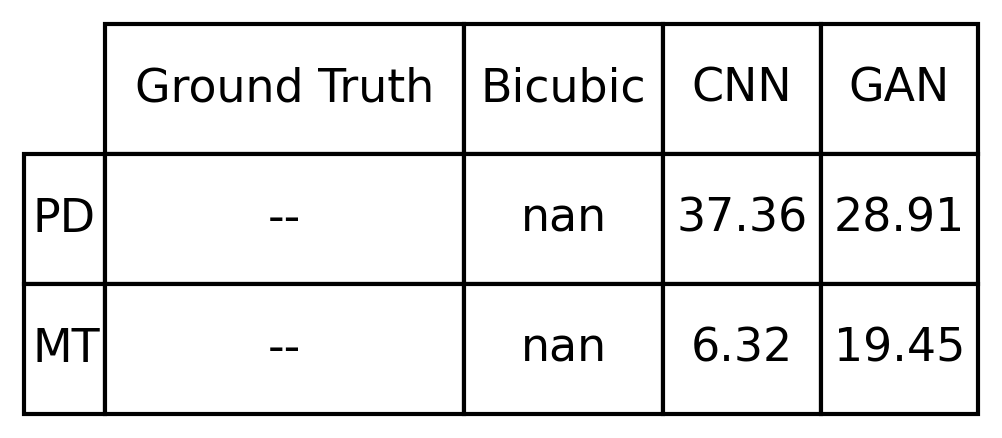
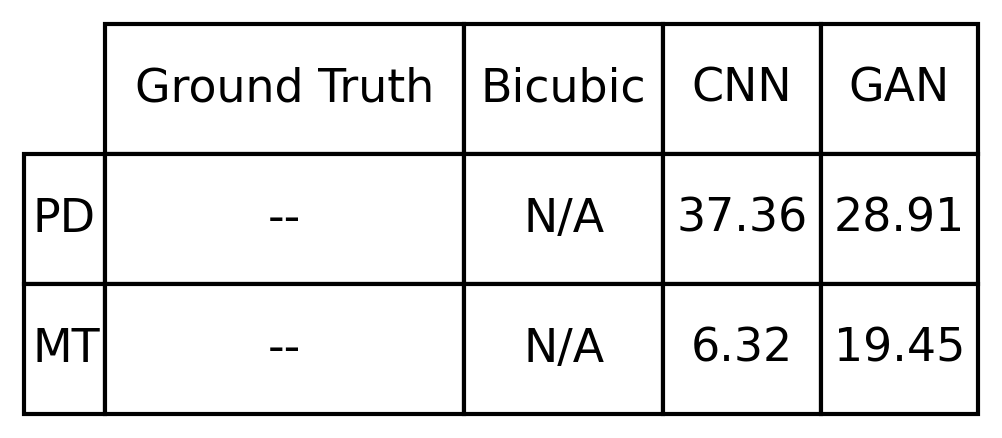
complete phase 2d-b scripted panel rendering

Changed region(s): [[0.5259, 0.742, 0.6188, 0.8311], [0.5259, 0.4452, 0.6188, 0.5342]]

diff --git a/docs/unified_candidate_phase2db_scripted_visual_review.md b/docs/unified_candidate_phase2db_scripted_visual_review.md
@@ -1,34 +1,23 @@
 # Phase 2D-B Scripted-Panel Visual Review
 
 The 81 scripted Phase 2D-B panels were reviewed after the authoritative
-Spark `--render-fields` run and the publication-layout refinement.
+Spark `--render-fields` run and the publication-layout refinements.
 
 ## Review result
 
-- Figure 1 — global descriptor disagreement:
-  ACCEPTED.
-- Figure 2 — GAN/CNN descriptor conflict:
-  CONDITIONALLY ACCEPTED. The scientific content and panel identities are
-  correct, but the metric strip currently displays unavailable Bicubic PD
-  and MT entries as `nan`. These entries must be rendered as `N/A` before
-  final scripted-panel acceptance.
-- Figure 3 — F3 versus UV+E2 tradeoff:
-  ACCEPTED. The deterministic zoom is clearly presented in a 2-by-2 layout.
-- Figure 4 — F2 balanced case:
-  ACCEPTED. The compact PD/MT tradeoff plot has readable annotations and
-  unclipped axes.
-- Figure 5 — Candidate C continuity:
-  ACCEPTED.
-- Figure 6 — global descriptor agreement:
-  ACCEPTED. The compact PD/MT comparison is sufficiently legible for
-  continued composite development.
+- Figure 1 — global descriptor disagreement: ACCEPTED.
+- Figure 2 — GAN/CNN descriptor conflict: ACCEPTED.
+- Figure 3 — F3 versus UV+E2 tradeoff: ACCEPTED.
+- Figure 4 — F2 balanced case: ACCEPTED.
+- Figure 5 — Candidate C continuity: ACCEPTED.
+- Figure 6 — global descriptor agreement: ACCEPTED.
 
 ## Checks performed
 
 - Method identities and panel assignments were verified.
 - No blank, duplicated, or visibly misassigned scripted panel was found.
-- Shared speed scaling appeared consistent within each figure.
-- Shared error-map scaling appeared consistent within each figure.
+- Shared speed scaling was verified within each figure.
+- Shared error-map scaling was verified within each figure.
 - Speed panels include compact colorbars labeled `Speed`.
 - Error panels include compact colorbars labeled `|Speed - GT|`.
 - Persistence-diagram coordinate panels were clearly distinguished from
@@ -37,24 +26,17 @@ Spark `--render-fields` run and the publication-layout refinement.
   coordinate source and were not presented as genuine persistence diagrams.
 - No superlevel-negated persistence diagram was mixed into a main
   default-sublevel figure.
-- Figure 3's deterministic zoom region was verified at
+- Figure 3's deterministic zoom was verified at
   `y=100:200, x=25:125`.
 - Persistence-diagram Birth and Death labels, ticks, titles, and distance
   annotations were readable.
-- Figure 4's compact tradeoff annotations and axis labels were not visibly
-  clipped.
+- Figure 4's compact tradeoff annotations and axes were readable and
+  unclipped.
 - Figure 6's compact PD/MT comparison was readable.
-- Metric-strip tables occupied substantially more of their canvases and were
-  generally readable.
+- Metric-strip tables occupied most of their canvases and were readable.
+- Missing or non-finite metric-strip values were displayed as `N/A`;
+  no literal `nan` or `inf` text remained in the reviewed panels.
+- Ground Truth metric-strip reference cells remained displayed as `--`.
 
-## Remaining scripted-panel correction
-
-- Replace non-finite or unavailable metric-strip values such as `nan` with
-  the explicit display text `N/A`.
-- Preserve Ground Truth reference entries as `--`.
-- Rerender and visually recheck Figure 2's metric strip.
-
-Figures 1, 3, 4, 5, and 6 are accepted as scripted inputs for final composite
-assembly. Figure 2 remains conditionally accepted until its metric-strip
-formatting is corrected. Manual merge-tree panels and final composite review
-remain pending.
+All 81 scripted panels are accepted as inputs for final composite assembly.
+Manual merge-tree panels and final composite review remain pending.
